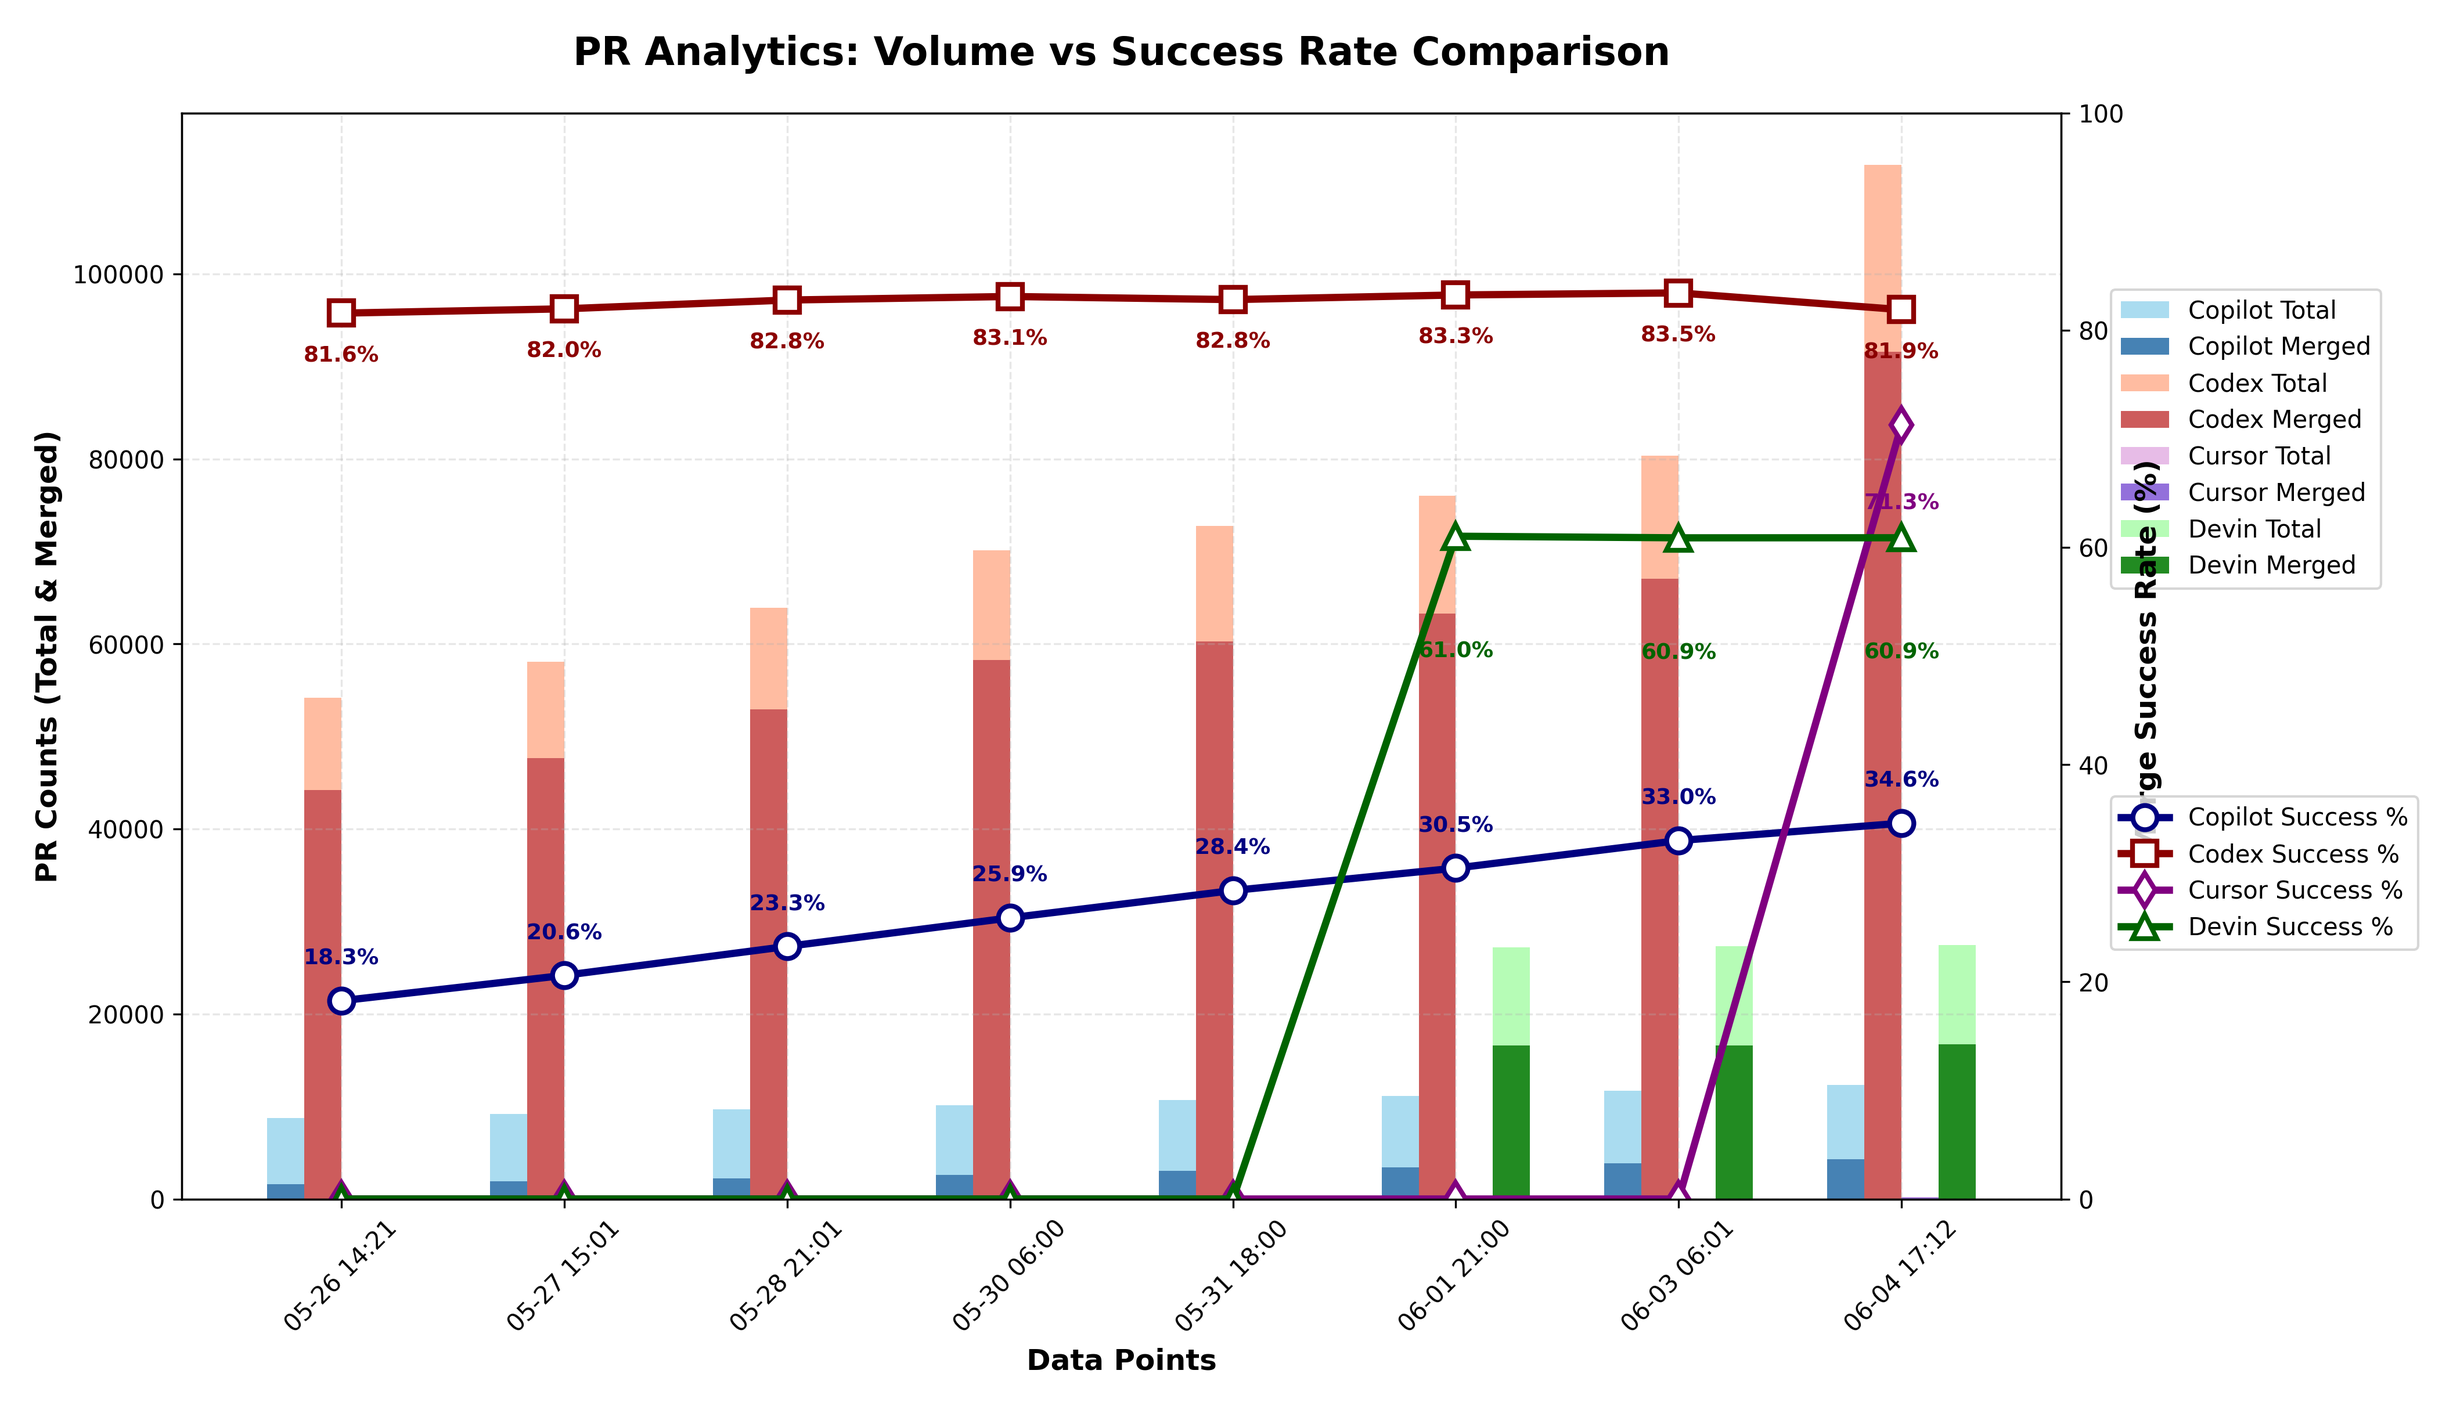
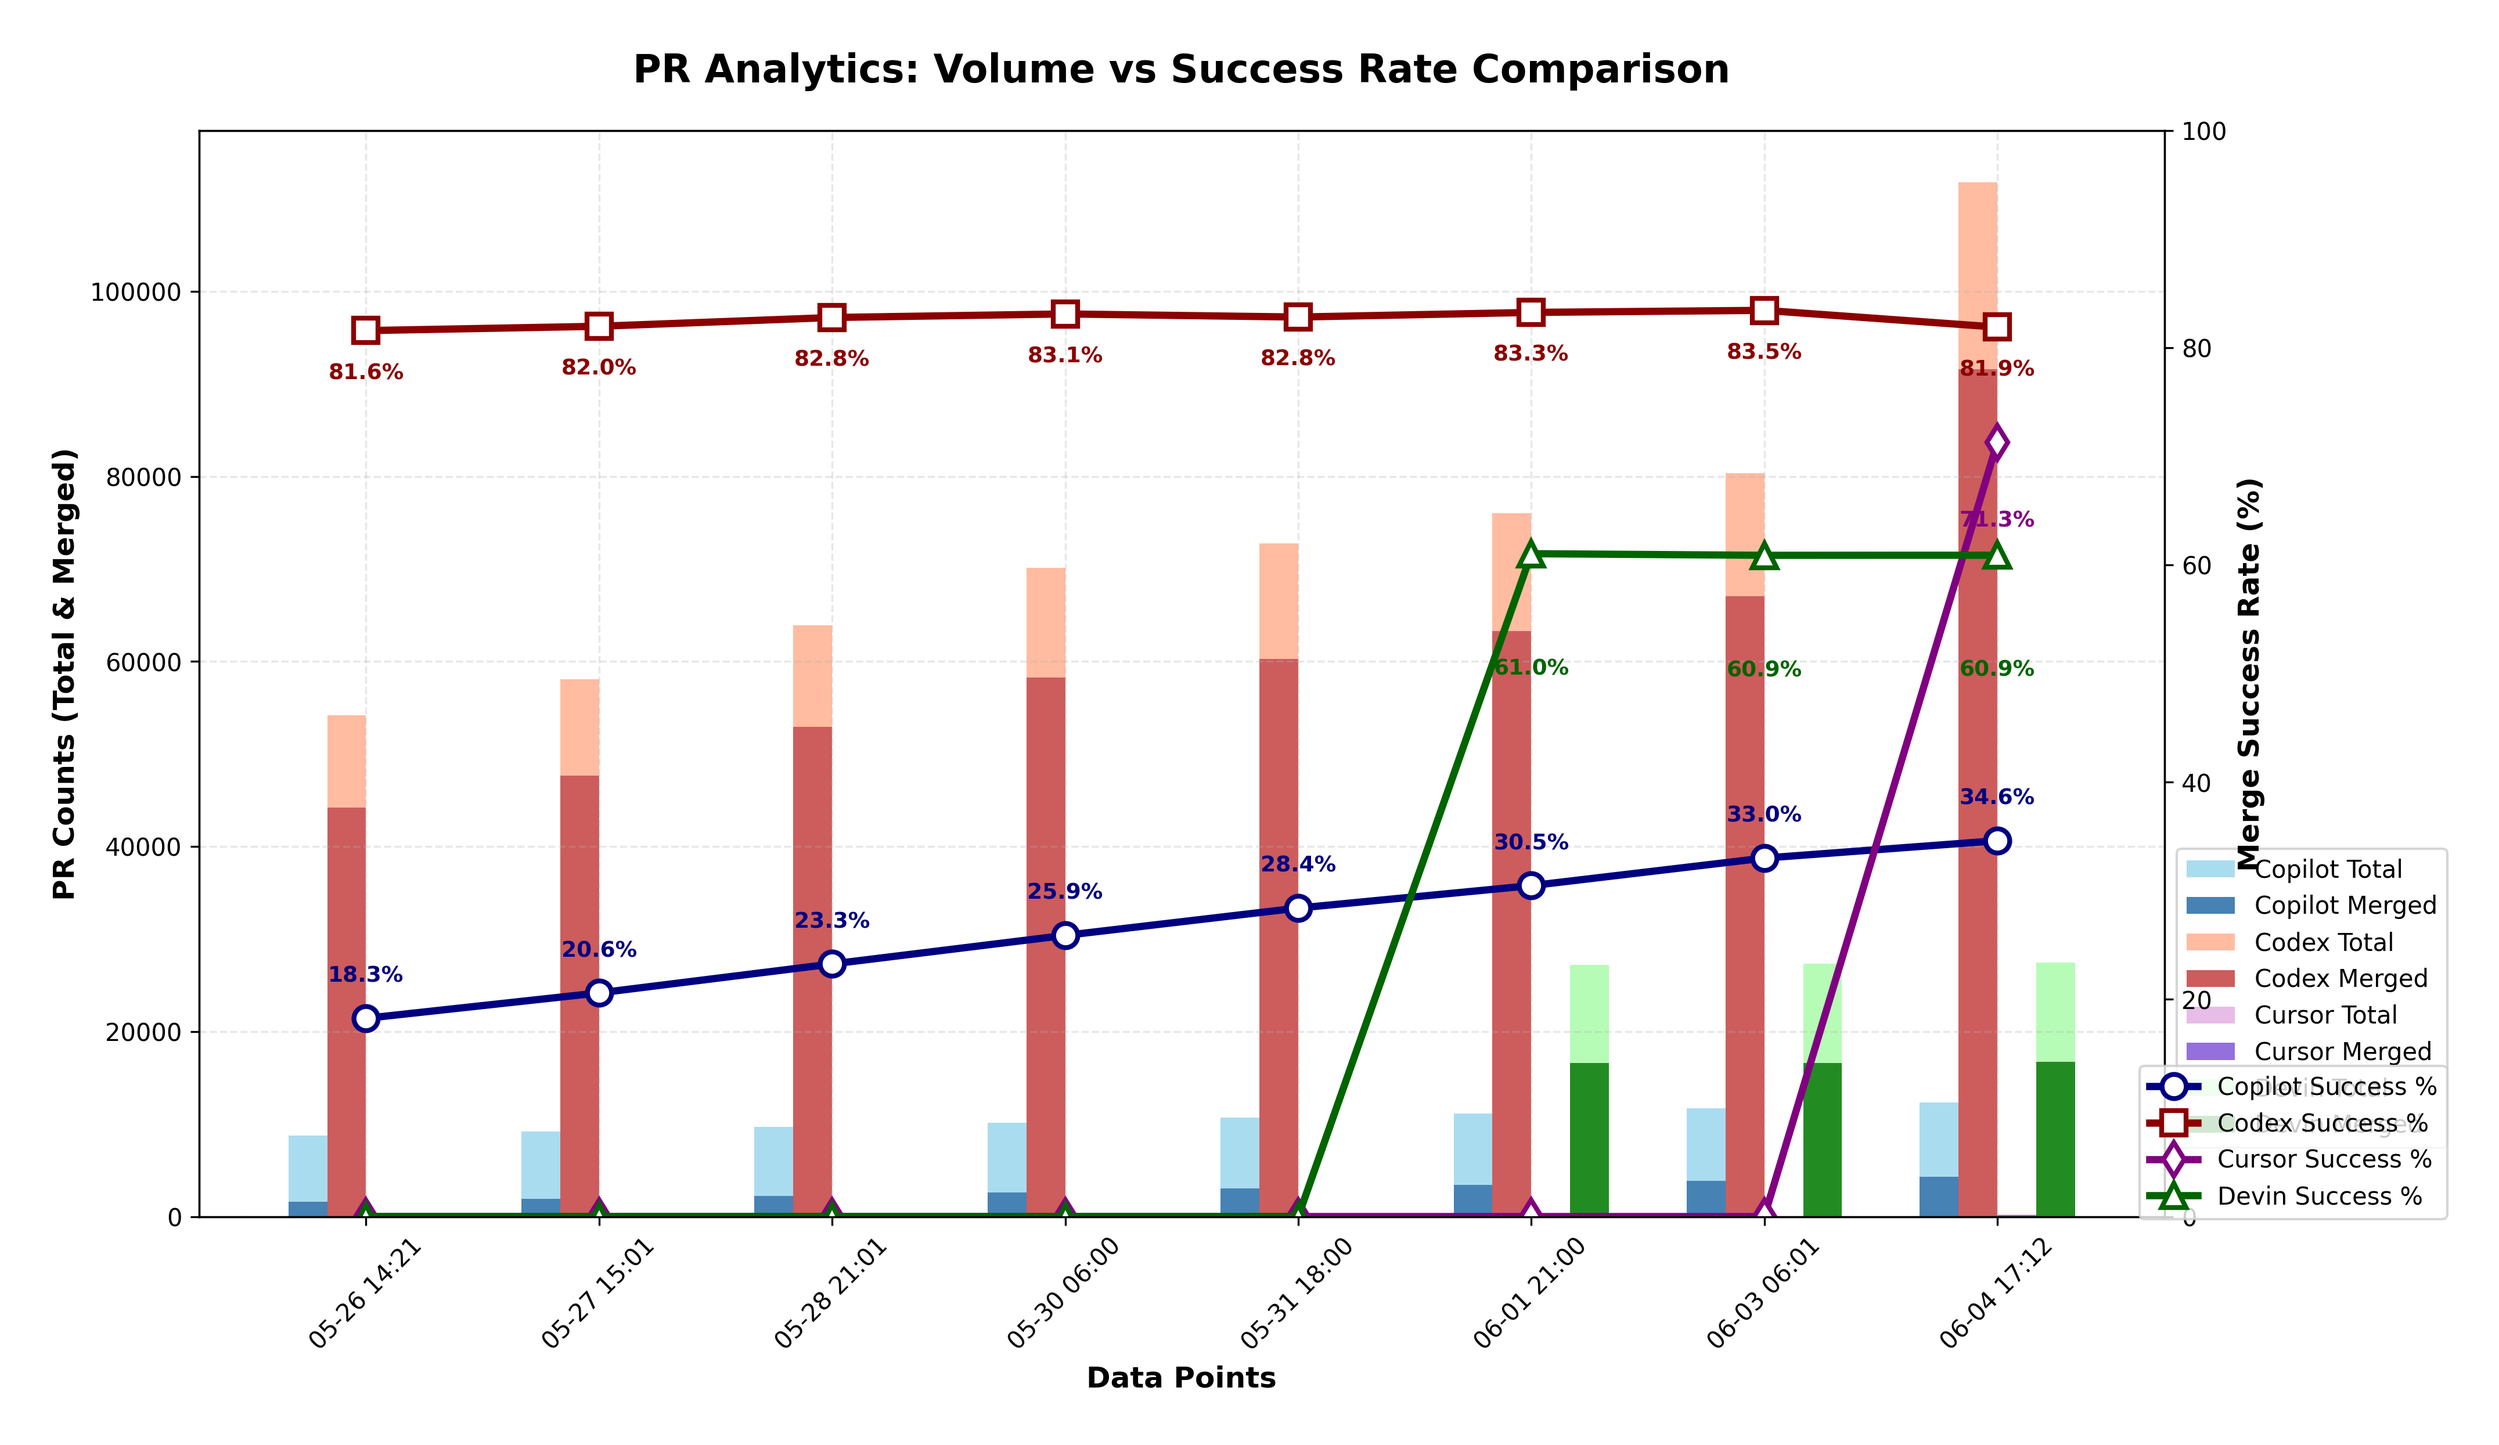
Fix legend positioning overlap and remove duplicate chart files

diff --git a/docs/index.html b/docs/index.html
@@ -31,7 +31,7 @@
 
         <section class="chart">
             <h2>PR Analytics Chart</h2>
-            <img src="chart.png" alt="PR Analytics Chart" class="chart-image">
+            <img src="../chart.png" alt="PR Analytics Chart" class="chart-image">
         </section>
 
         <section class="statistics">
@@ -75,7 +75,7 @@
         </section>
 
         <footer>
-            <p>Last updated: <span id="last-updated">June 04, 2025 18:19 UTC</span></p>
+            <p>Last updated: <span id="last-updated">June 04, 2025 18:20 UTC</span></p>
             <p><a href="https://github.com/aavetis/ai-pr-watcher">View on GitHub</a></p>
         </footer>
     </div>

diff --git a/generate_chart.py b/generate_chart.py
@@ -234,9 +234,9 @@ def generate_chart(csv_file=None):
     ax1.set_xticks(x)
     ax1.set_xticklabels(timestamps, rotation=45)
 
-    # Add legends - moved outside plot area to reduce clutter
-    legend1 = ax1.legend(loc="center left", bbox_to_anchor=(1.02, 0.7))
-    legend2 = ax2.legend(loc="center left", bbox_to_anchor=(1.02, 0.3))
+    # Add legends - moved to bottom right with extra padding to avoid overlap
+    legend1 = ax1.legend(loc="upper right", bbox_to_anchor=(1.15, 0.35))
+    legend2 = ax2.legend(loc="upper right", bbox_to_anchor=(1.15, 0.15))
 
     # Add grid
     ax1.grid(True, alpha=0.3, linestyle="--")
@@ -304,15 +304,11 @@ def generate_chart(csv_file=None):
     # Save chart with appropriate DPI for CI environments
     chart_file = Path("chart.png")
     dpi = 150 if num_points <= 5 else 300
-    fig.savefig(chart_file, dpi=dpi, bbox_inches="tight", facecolor="white", pad_inches=0.2)
+    fig.savefig(chart_file, dpi=dpi, bbox_inches="tight", facecolor="white", pad_inches=0.3)
     print(f"Chart generated: {chart_file}")
     
-    # Also save chart to docs directory for GitHub Pages
-    docs_dir = Path("docs")
-    if docs_dir.exists():
-        docs_chart_file = docs_dir / "chart.png"
-        fig.savefig(docs_chart_file, dpi=dpi, bbox_inches="tight", facecolor="white", pad_inches=0.2)
-        print(f"Chart copied to GitHub Pages: {docs_chart_file}")
+    # Note: Chart is saved only in root directory to avoid duplication
+    # Both README.md and GitHub Pages will reference the same file
 
     # Update the README with latest statistics
     update_readme(df)
